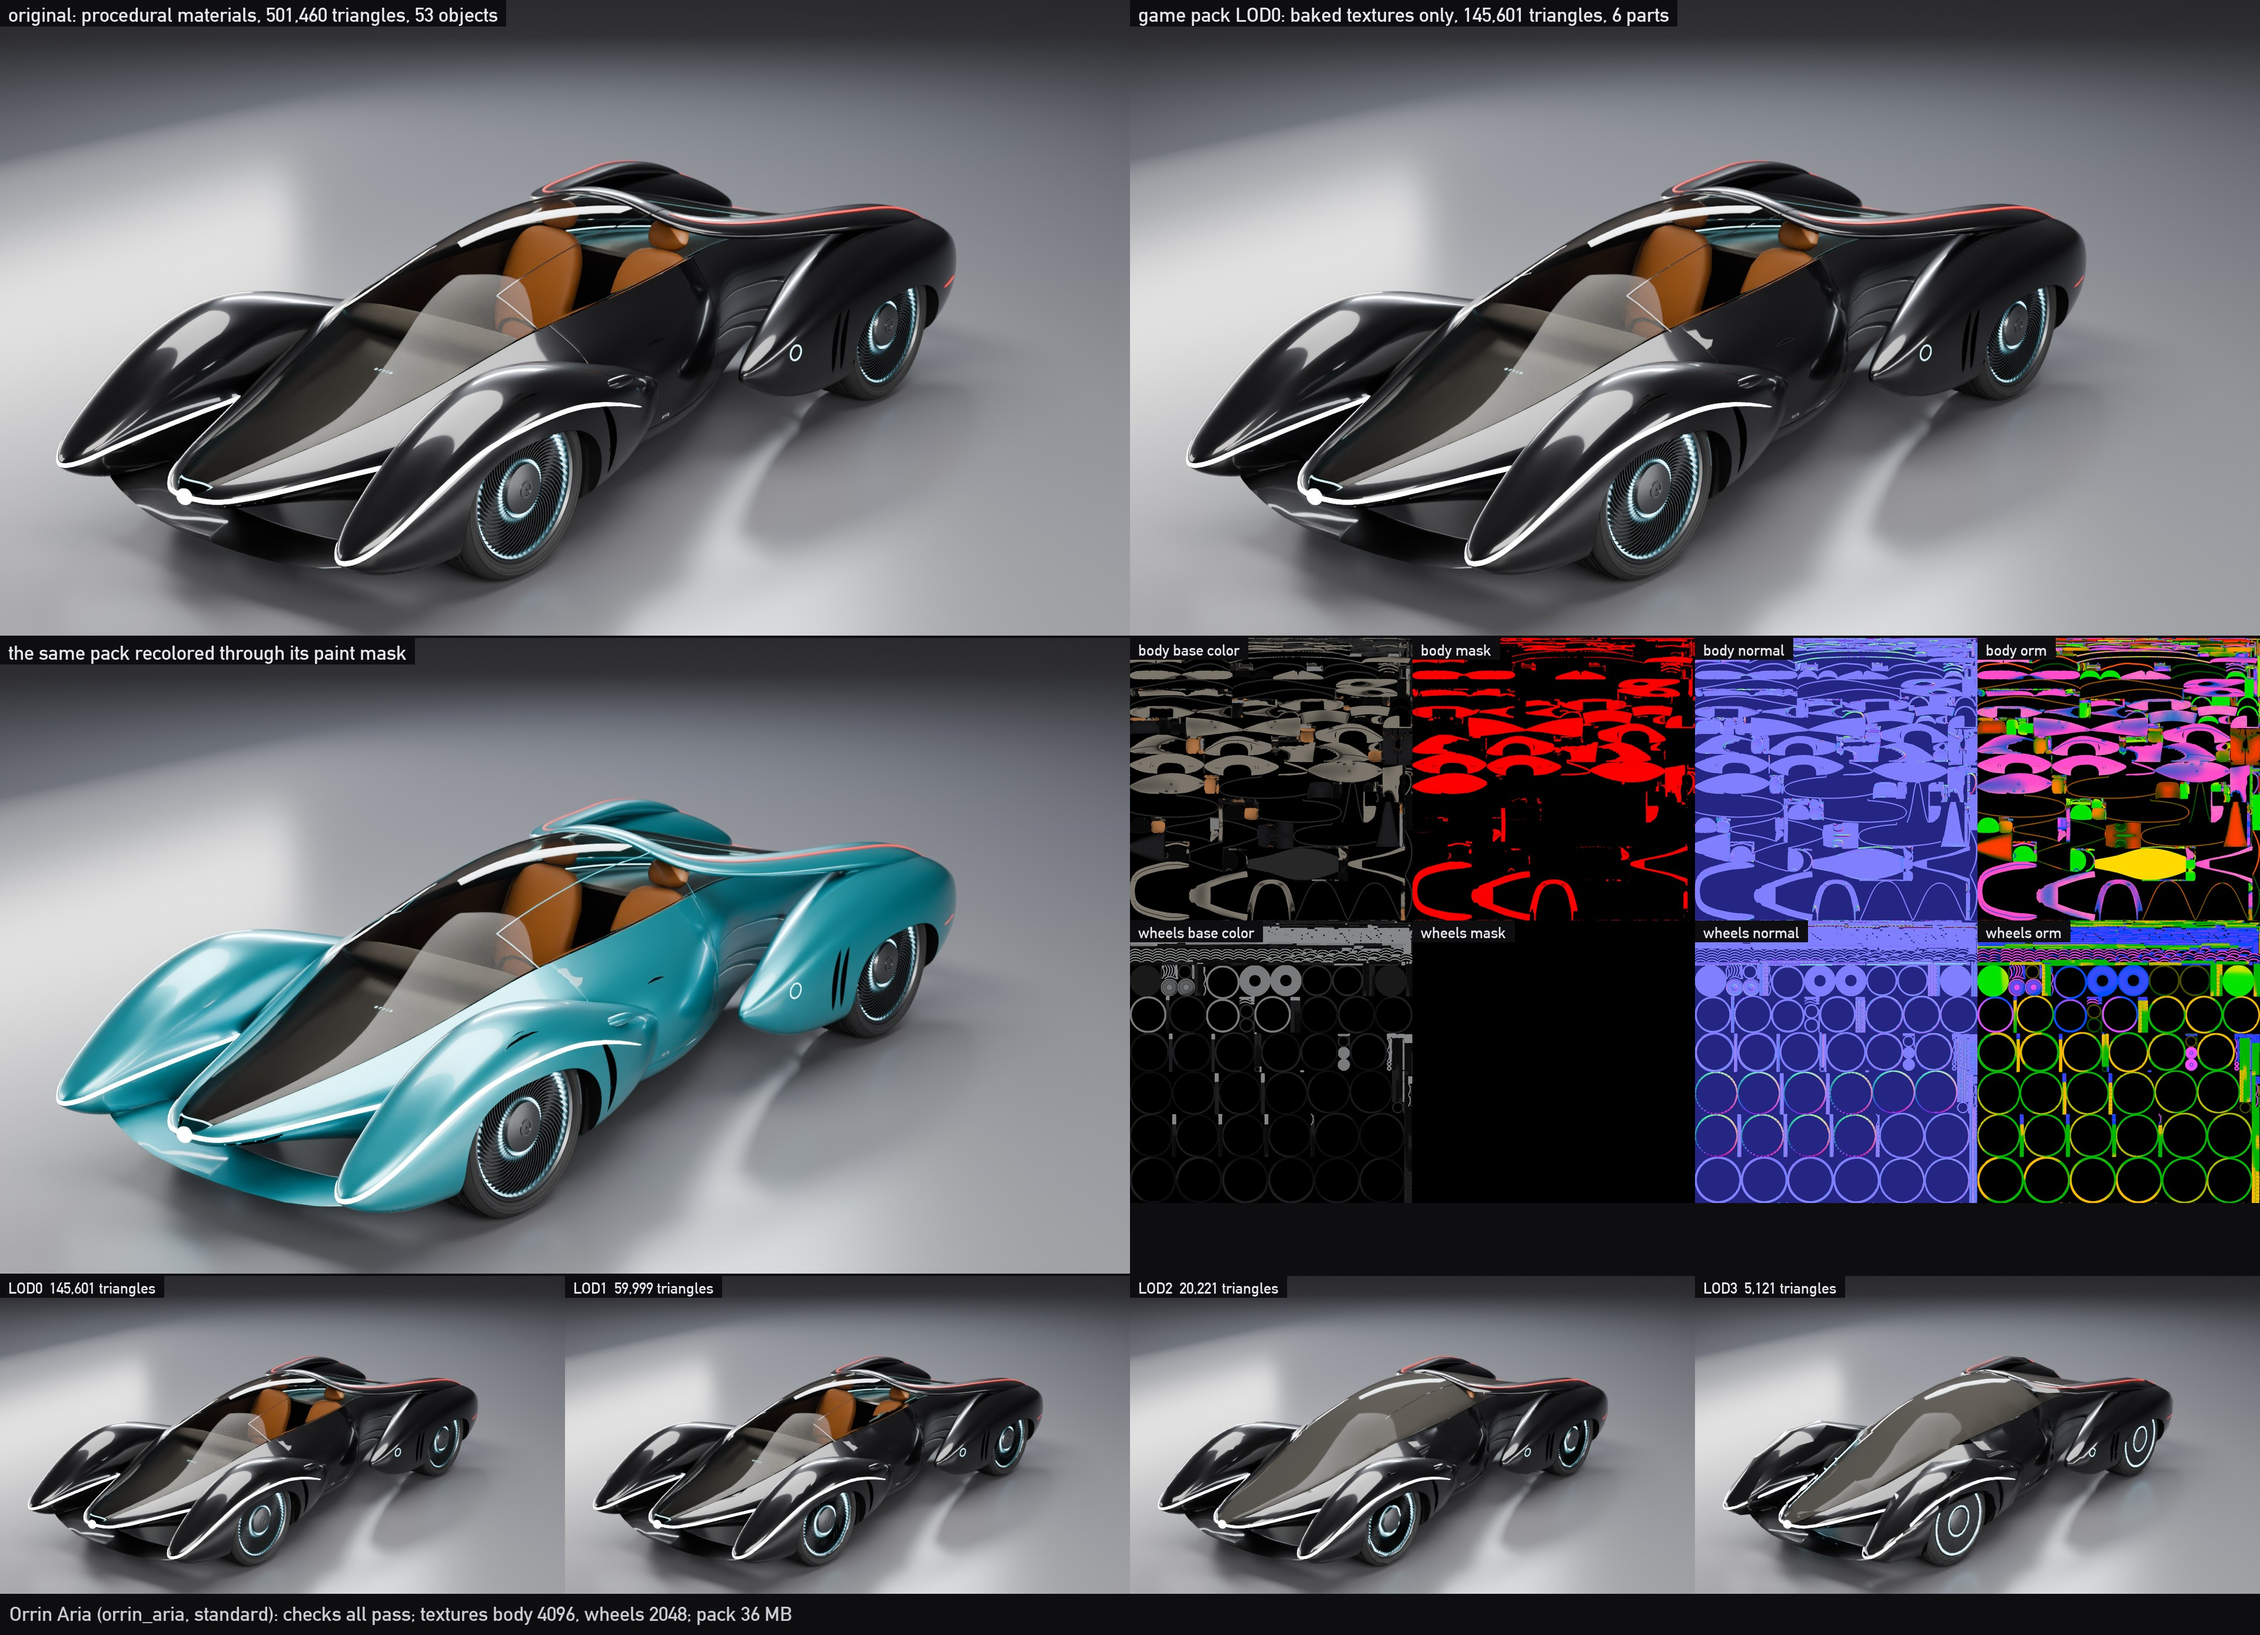
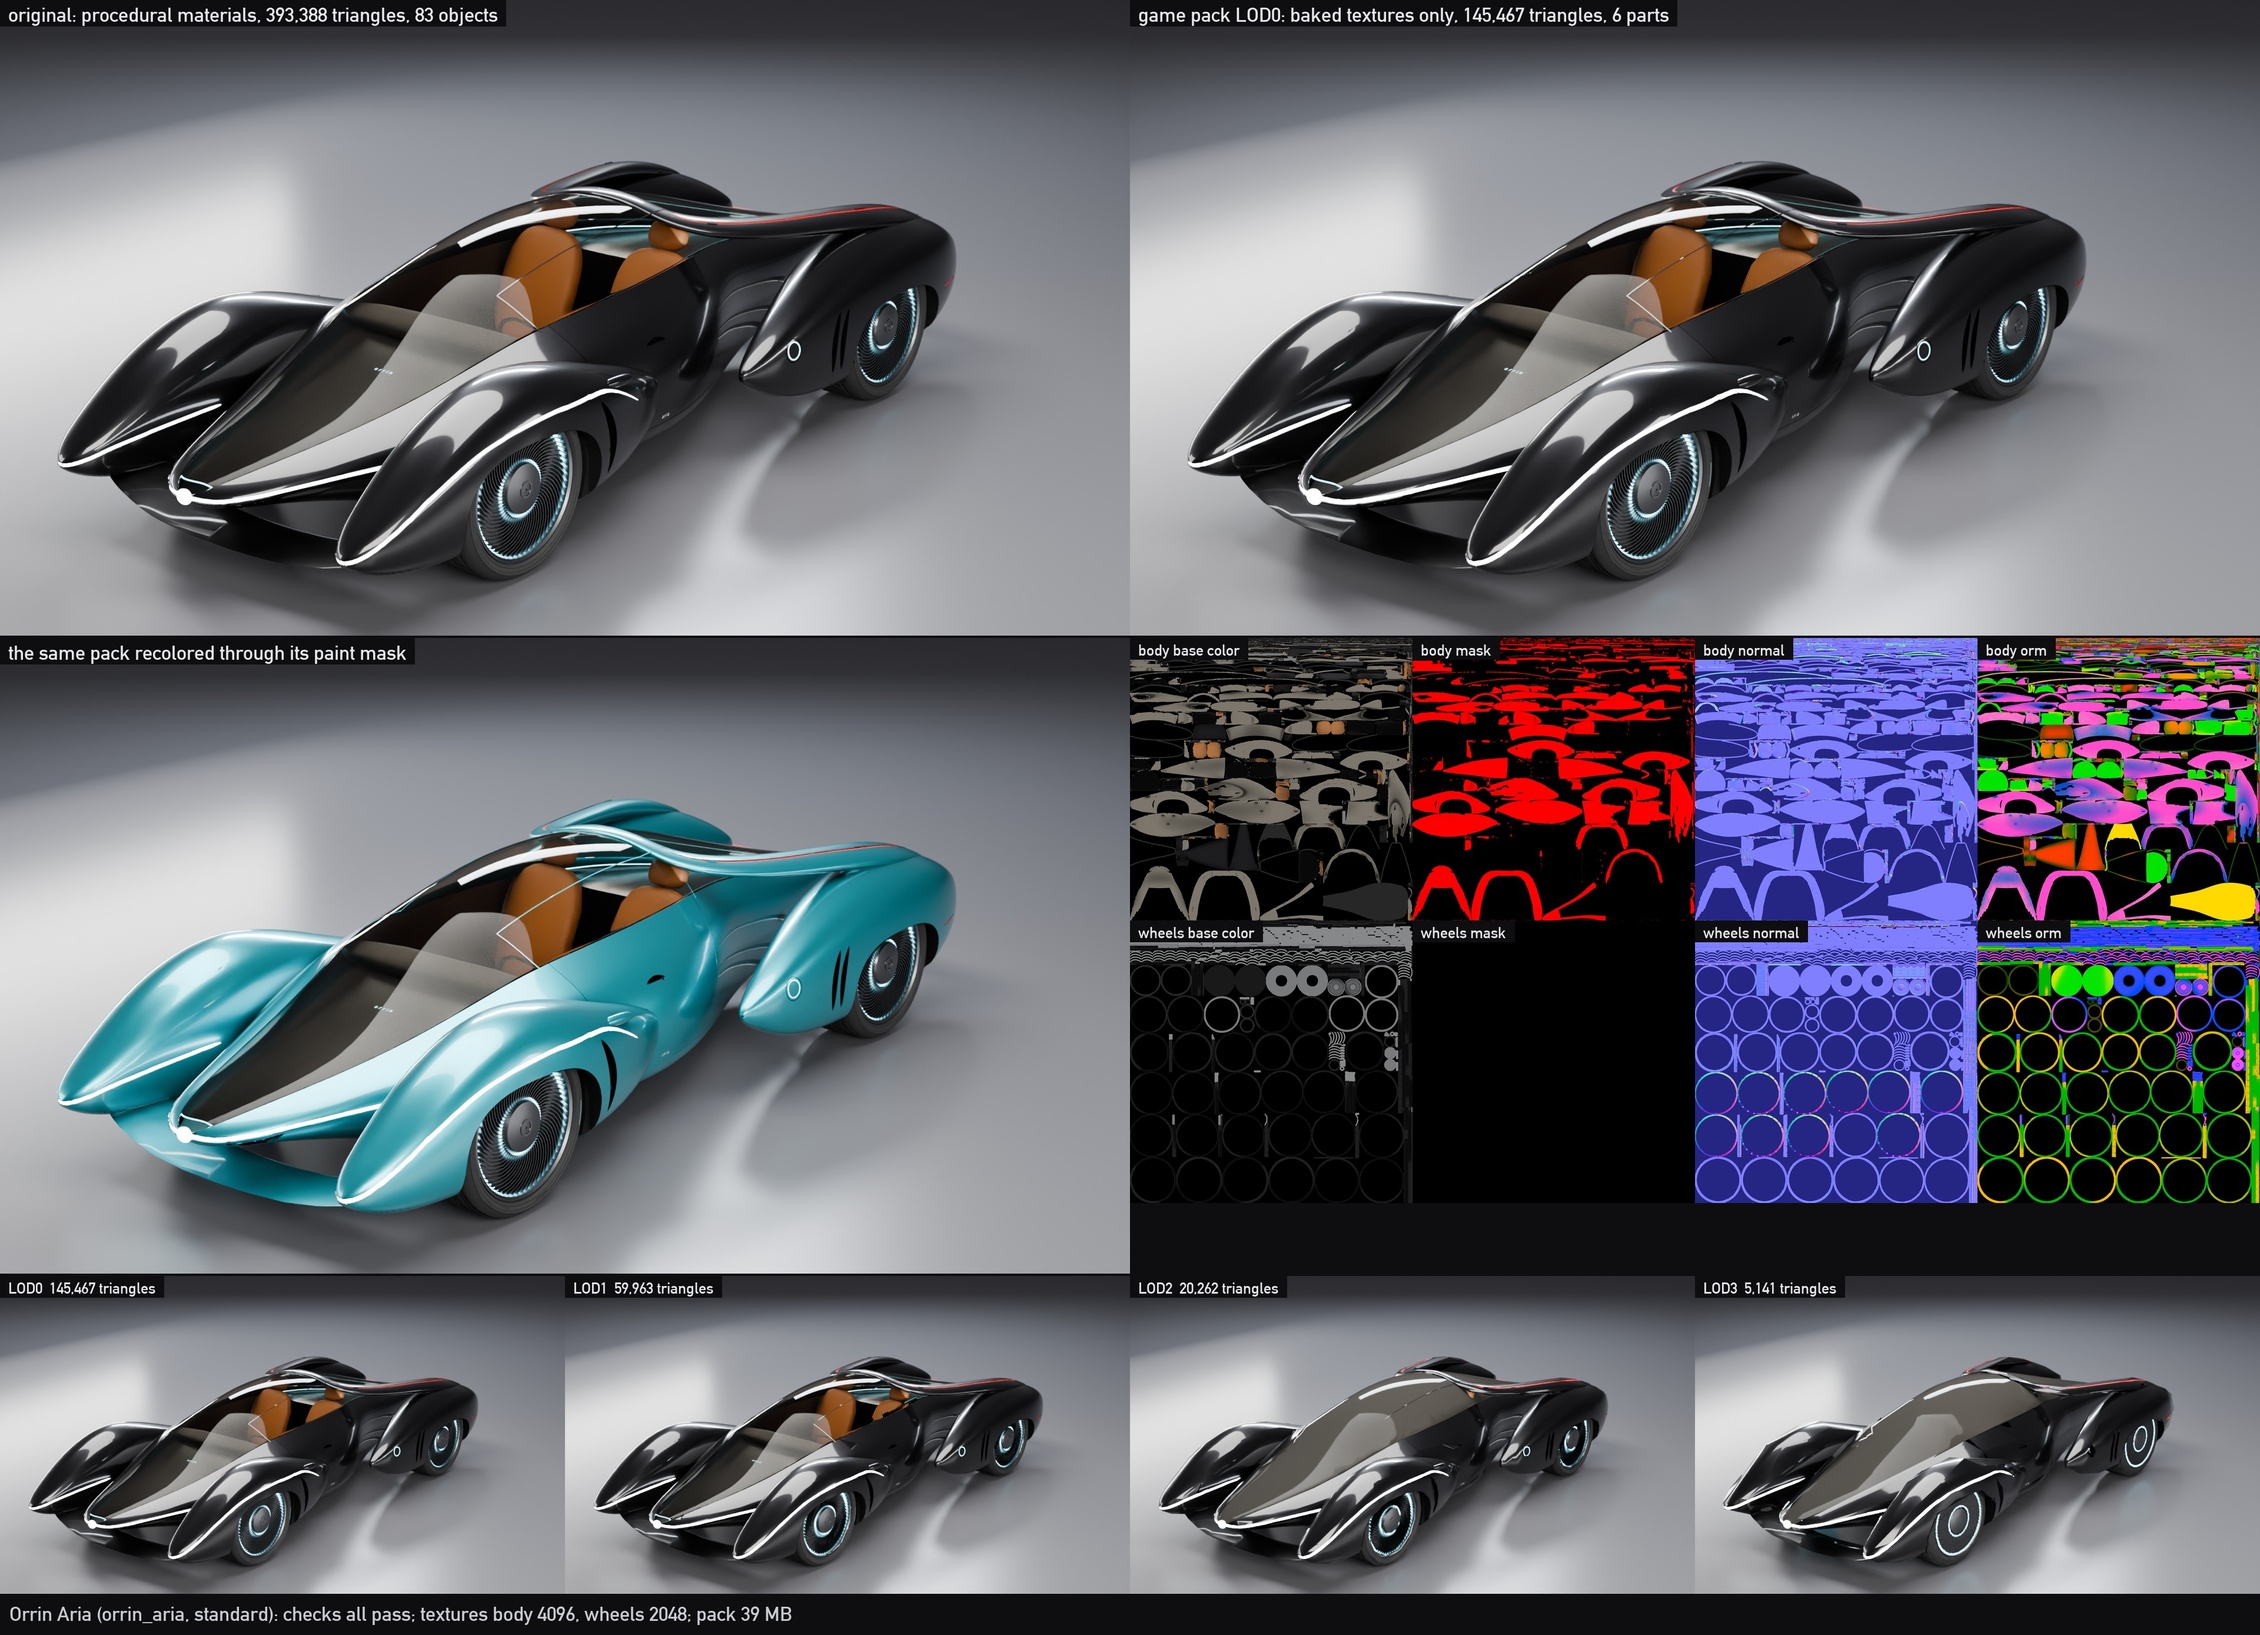
AG18 step B: the Orrin Aria's game pack, README and log

diff --git a/docs/progress/AG18/orrin_aria/README.md b/docs/progress/AG18/orrin_aria/README.md
@@ -4,7 +4,7 @@
 
 - **Brand, model, type:** Orrin Aria, hypercar, 2 seats side by side (all names made up). The wild one of the family, after the Lumen and the Pebble.
 - **Size:** 4.74 m long, 2.06 m wide, 1.12 m high, wheelbase 2.75 m, wheels 0.76 m, ground clearance 0.13 m.
-- **Triangles:** 501,460 in 53 objects (core and pods at subdivision 4).
+- **Triangles:** 393,388 in 82 objects (the core at subdivision 4, the pods and hips at 3, the yoke at 2; 501,460 before step B).
 - **Build:** `vehicles/blender.sh vehicles/cars/orrin_aria.py --out docs/progress/AG18/orrin_aria --sheet`
 
 ## The design
@@ -17,13 +17,67 @@
 - The Orrin cues: lidded wheels on turbine discs (60 vanes, two light rings), paired crescents (the intakes on the hips, one in each front wheel's wake, a pair under the nose pole), dot lenses on the pods' fronts and the hips' tails, `aria` low on the door, `orrin` on the hoop and lit under the nose glass, a hair of light round both tongues of the canopy, a ring of light for the charge port on each hip's nose.
 - Show color: obsidian black in a satin pearl, with ice blue light and cognac seats. The sheet's two small tiles are the rear three-quarter and the plan, where the channels show best.
 
+## Step B: lamps, cut lines, glass (2026-11-13)
+
+On the Pebble's pattern (`docs/assetgen_milestones.md`, AG18, step B), and now on
+`vehicles/brands/orrin.py` (ring, snap, strip, the lid and lune cutters, the dot fields,
+the lettering, the stones, the liner's rim and the turbine disc; built exactly as before
+when switched). The module gains the Pebble's channel parts as copies of its own (`on_skin`,
+`taper_width`, `along`, `band`, `chop`, `seated`, and `channel_lamp`, the lens, lit face and
+sleeve in one call; the Lumen and the Pebble build as before). The sheet, clay, zebra and
+check above are of this build.
+
+- Ribbons: the light lines are now channels cut into the skin, 16 mm wide and 9 mm deep,
+  one per body piece (each piece is cut alone): round the nose on the core from slot to
+  slot; on each fender pod from behind the wheel over its lid, round the pod's tip and back
+  up the slot (raised 30 mm over the wake crescent's tip, which it crossed); on each
+  buttress from the roof down into the hip, where the hip's own channel takes over from
+  under the leg, runs along the crest and round the hip's tip in a wide turn (a tight one
+  folded into chips) down to the tail blade's light bar, drawn out to its height. In each
+  the Pebble's lamp: a flush lens of its own with the body's gap each side, set 1.2 mm under
+  the skin (on the nose's tight curve a flush lens's edges stood proud), a lit face right
+  under it 3 mm wider than the mouth, a frosted sleeve; the walls a 1 mm sheet chopped into
+  4.5 cm pieces. White at the front, red behind. The pole pebbles stay, seated on the skin
+  as it stood before the cuts; the side markers are short channels of their own.
+- Cut lines: a round flap (108 mm) cut round each charge port on the hips' noses (the left
+  one the charge port's, the right a service flap), the port's light ring inside it laid on
+  the skin as it stood before the cut; the door pulls a crescent recess (`lune_cut`) in
+  place of a painted strip; the crescent slots (nose, wheel wakes, hip intakes) and the
+  wheel openings told to the checks (twelve cutter holes before, none now). Shut lines stay
+  the kit's 2.4 mm, as on the Pebble (3.5 mm tore round the cuts in its pack's far LODs).
+- Glass: unchanged. The canopy is one teardrop leaf from pole to pole with no frame by
+  design, so there was no old frame to move to `"frame"` or `"frit"`.
+- Wheels: room round the tires, inside the skin. The front tires stood in the core's lower
+  flank (inside the pod) and against the well's inner wall: a well cut into the core beside
+  each tire, an arch reaching in beside the tire's inner sidewall under the pod's inner
+  crown, and the wells' arches lowered at their top where the crown falls away close over
+  the tire (the old wells broke through the skin over each front tire and into the channel
+  over each rear one: four of the cutter holes). Each cutter is a solid of its own (two
+  overlapping in one cutter emptied a pod). 0.0 mm front and 2.8 mm rear before, 5.0 mm
+  now, at the tire's outer shoulder under the eyelid; the front still cannot steer.
+- Triangles: 393,388 (501,460 before): the pods and hips at subdivision 3, as the old notes
+  proposed (their zebra stays smooth), the yoke (a slim section) at 2, the liner under the
+  glass at 2, the channels sampled every 18 mm and their lamps every 20 mm, the tread at 80
+  segments (a 0.3 mm chord on the tire's round), the two stones hidden under the seats
+  coarser; `chop` splits only the faces near each cut (the Pebble's splits the whole object
+  at every cut, both sides and every turn).
+- Game pack rebuilt, every check passing: 145,467, 59,963, 20,262, 5,141 triangles,
+  standard class, texels 393 px/m (5th percentile, 351 before), LOD3 15.8 of 40 degrees,
+  0.023 of 0.10 bent, 0.010 of 0.04 texture (main 15.0, 0.022, 0.010). The ribbons read as
+  lit lines at every LOD, LOD2 and LOD3 as main's; baked up close, the channels' wall edges
+  leave a fine dark rim along each line.
+
+Left: the front wheels cannot steer (0 degrees), as on the Lumen and the Pebble: they are
+faired in under the eyelids. Small chips inside the crescent slots under the nose pole
+(the slot's walls where its cutter meets the skin nearly tangent), seen from close up; the
+chopped walls' top edges catch light at the channels' mouths from a few tens of centimeters.
+
 ## What I would improve
 
 - The drops meet as plain intersections (pod to core, buttress to hip); a poured car wants a fillet there, which needs the bodies built as one cage or a blend pass.
 - The front wheels have little room to steer inside their pods, and the three arms across each channel stand in for a whole suspension.
 - The hips' inner walls mirror the studio lights in the back view and read as bright metal; a satin finish in the channels would calm it.
 - The doors are hairlines over the glass and a pull; hinges, a seal and an open state would explain the way in.
-- Half a million triangles: the pods would do at subdivision 3.
 
 ## Kit wishes
 

diff --git a/docs/progress/AG18/checks.md b/docs/progress/AG18/checks.md
@@ -15,7 +15,7 @@
 | [kestrel_atlas](kestrel_atlas/check.json) | ok: none (hover) | ok: 374.4 mm (pod.skid.r) | look: 11 objects | ok: 0 open runs, 0 cutter holes | ok: 0 parts | ok: 181915 |
 | [kestrel_dart](kestrel_dart/check.json) | ok: none (hover) | ok: 325.0 mm (keel) | look: 3 objects | ok: 0 open runs, 0 cutter holes | look: 1 parts | ok: 112558 |
 | [kestrel_meridian](kestrel_meridian/check.json) | ok: none (hover) | ok: 335.0 mm (lamp.keel.glass) | look: 3 objects | ok: 0 open runs, 0 cutter holes | ok: 0 parts | ok: 119902 |
-| [orrin_aria](orrin_aria/check.json) | FAIL: 0.0 mm to body.front, steers 0 deg | ok: 131.8 mm (body.floor) | look: 2 objects | look: 0 open runs, 12 cutter holes | ok: 0 parts | look: 501460 |
+| [orrin_aria](orrin_aria/check.json) | look: 5.0 mm to pod.well, steers 0 deg | ok: 131.8 mm (body.floor) | look: 2 objects | ok: 0 open runs, 0 cutter holes | ok: 0 parts | ok: 393388 |
 | [orrin_lumen](orrin_lumen/check.json) | look: 14.6 mm to body.well, steers 0 deg | ok: 130.0 mm (body.floor) | look: 2 objects | ok: 0 open runs, 0 cutter holes | ok: 0 parts | ok: 356940 |
 | [orrin_pebble](orrin_pebble/check.json) | look: 16.1 mm to body.rear, steers 0 deg | ok: 143.3 mm (body.floor) | look: 5 objects | ok: 0 open runs, 0 cutter holes | ok: 0 parts | ok: 324498 |
 | [tanager_cab](tanager_cab/check.json) | FAIL: 0.0 mm to bumper.guards.rear, steers 0 deg | ok: 120.0 mm (mudflaps) | look: 39 objects | FAIL: 4 open runs, 0 cutter holes | look: 1 parts | ok: 285996 |
@@ -89,27 +89,14 @@
 
 - not mirrored: `led.step` 236.8 mm, `step.tread` 234.2 mm, `interior.yoke` 219.6 mm, `step.links` 198.5 mm, `step.grip` 197.6 mm, `step.bay` 16.1 mm, `pod.f.pod_low` 11.0 mm, `led.name` 5.2 mm, `fin.code` 3.3 mm
 
-**orrin_aria** (FAIL)
+**orrin_aria** (look)
 
-- tire `fl`: 0.0 mm to `body.front`, turns 0 degrees before it touches `pod.well`
-- tire `rl`: 2.8 mm to `hip.well`
-- tire `fr`: 0.0 mm to `body.front`, turns 0 degrees before it touches `pod.well`
-- tire `rr`: 2.8 mm to `hip.well`
-- not mirrored: `interior.fittings` 216.3 mm, `led.cabin` 6.0 mm
+- tire `fl`: 5.0 mm to `pod.well`, turns 0 degrees before it touches `pod.well`
+- tire `rl`: 5.0 mm to `hip.well`
+- tire `fr`: 5.0 mm to `pod.well`, turns 0 degrees before it touches `pod.well`
+- tire `rr`: 5.0 mm to `hip.well`
+- not mirrored: `interior.fittings` 224.1 mm, `led.cabin` 6.0 mm
 - open ends of open pieces (meant): `liner.liner`
-- a cutter's hole inside `body.front`: 491 mm round, at (2.18, 0.215, 0.384)
-- a cutter's hole inside `body.front`: 491 mm round, at (2.18, -0.215, 0.384)
-- a cutter's hole inside `pod.pod`: 429 mm round, at (1.435, 0.945, 0.762)
-- a cutter's hole inside `pod.pod`: 168 mm round, at (1.445, 0.929, 0.781)
-- a cutter's hole inside `pod.pod`: 429 mm round, at (1.435, -0.945, 0.762)
-- a cutter's hole inside `pod.pod`: 168 mm round, at (1.445, -0.929, 0.781)
-- a cutter's hole inside `hip.hip`: 629 mm round, at (-0.818, -1.022, 0.452)
-- a cutter's hole inside `hip.hip`: 629 mm round, at (-0.748, -1.02, 0.453)
-- a cutter's hole inside `hip.hip`: 284 mm round, at (-1.293, 0.631, 0.777)
-- a cutter's hole inside `hip.hip`: 629 mm round, at (-0.748, 1.02, 0.453)
-- a cutter's hole inside `hip.hip`: 629 mm round, at (-0.818, 1.022, 0.452)
-- a cutter's hole inside `hip.hip`: 284 mm round, at (-1.293, -0.631, 0.777)
-- triangles: 501460 over the 400000 budget; most in `body` 139854, `hip` 105902, `pod` 103052, `tire` 57536
 
 **orrin_lumen** (look)
 

diff --git a/docs/assetgen_milestones.md b/docs/assetgen_milestones.md
@@ -3312,6 +3312,27 @@ Vanta-R the same).
   passing: 148,060, 59,993, 19,949, 5,067 triangles, standard class, texels 569 px/m (5th
   percentile), LOD3 5.9 of 40 degrees, 0.007 of 0.10 bent, 0.008 of 0.04 texture (main 6.2,
   0.006, 0.009); the ribbon one lit line at every LOD, LOD2 and LOD3 reading as main's. Not published.
+- **Orrin Aria** (`docs/progress/AG18/orrin_aria/`, on `vehicles/brands/orrin.py`, which
+  gains the Pebble's channel parts as copies, `channel_lamp` among them, and a `chop` that
+  splits only the faces near each cut; the Lumen and the Pebble build as before): the light
+  ribbons channels cut into each body piece, 16 mm wide and 9 mm deep (round the nose, along
+  each fender pod from behind the wheel round its tip and up the slot, down each buttress and
+  on along the hip's crest round its tip to the tail blade's light bar, the buttress's
+  channel running into the hip's from under the leg), each with the Pebble's flush lens (set
+  1.2 mm under the skin: on the nose's tight curve a flush lens's edges stood proud), wide
+  lit face and chopped 1 mm walls; side markers as short channels; a round flap cut round
+  each charge port with its light ring inside; the door pulls a crescent recess; the
+  crescents and the wheel openings told to the checks (twelve cutter holes, none now; four
+  were the wells breaking through the skin over the tires, their arches now lowered at the
+  top); the kit's 2.4 mm shut lines kept; the frameless teardrop canopy unchanged. Step A's
+  tires: room cut beside the front tires in the core and the pods' wells (each cutter a solid
+  of its own: two overlapping in one emptied a pod), 0.0 front and 2.8 mm rear before, 5.0
+  now; the front still cannot steer. 393,388 triangles (501,460): pods and hips at
+  subdivision 3, the yoke and the liner at 2, the channels and lamps sampled coarser, the
+  tread at 80 segments. Pack rebuilt, every check passing: 145,467, 59,963, 20,262, 5,141
+  triangles, standard class, texels 393 px/m (5th percentile), LOD3 15.8 of 40 degrees,
+  0.023 of 0.10 bent, 0.010 of 0.04 texture (main 15.0, 0.022, 0.010); its LOD row reads as
+  main's. Not published.
 - **Next**: the other cars of the Orrin, Brakk and Tanager brands on the
   pilots' patterns (Pebble, Aria, Bastion, Mule, Cab, Porter), each switching to its `vehicles/brands/` module, with step A's street-distance
   findings fixed as it is redone.
